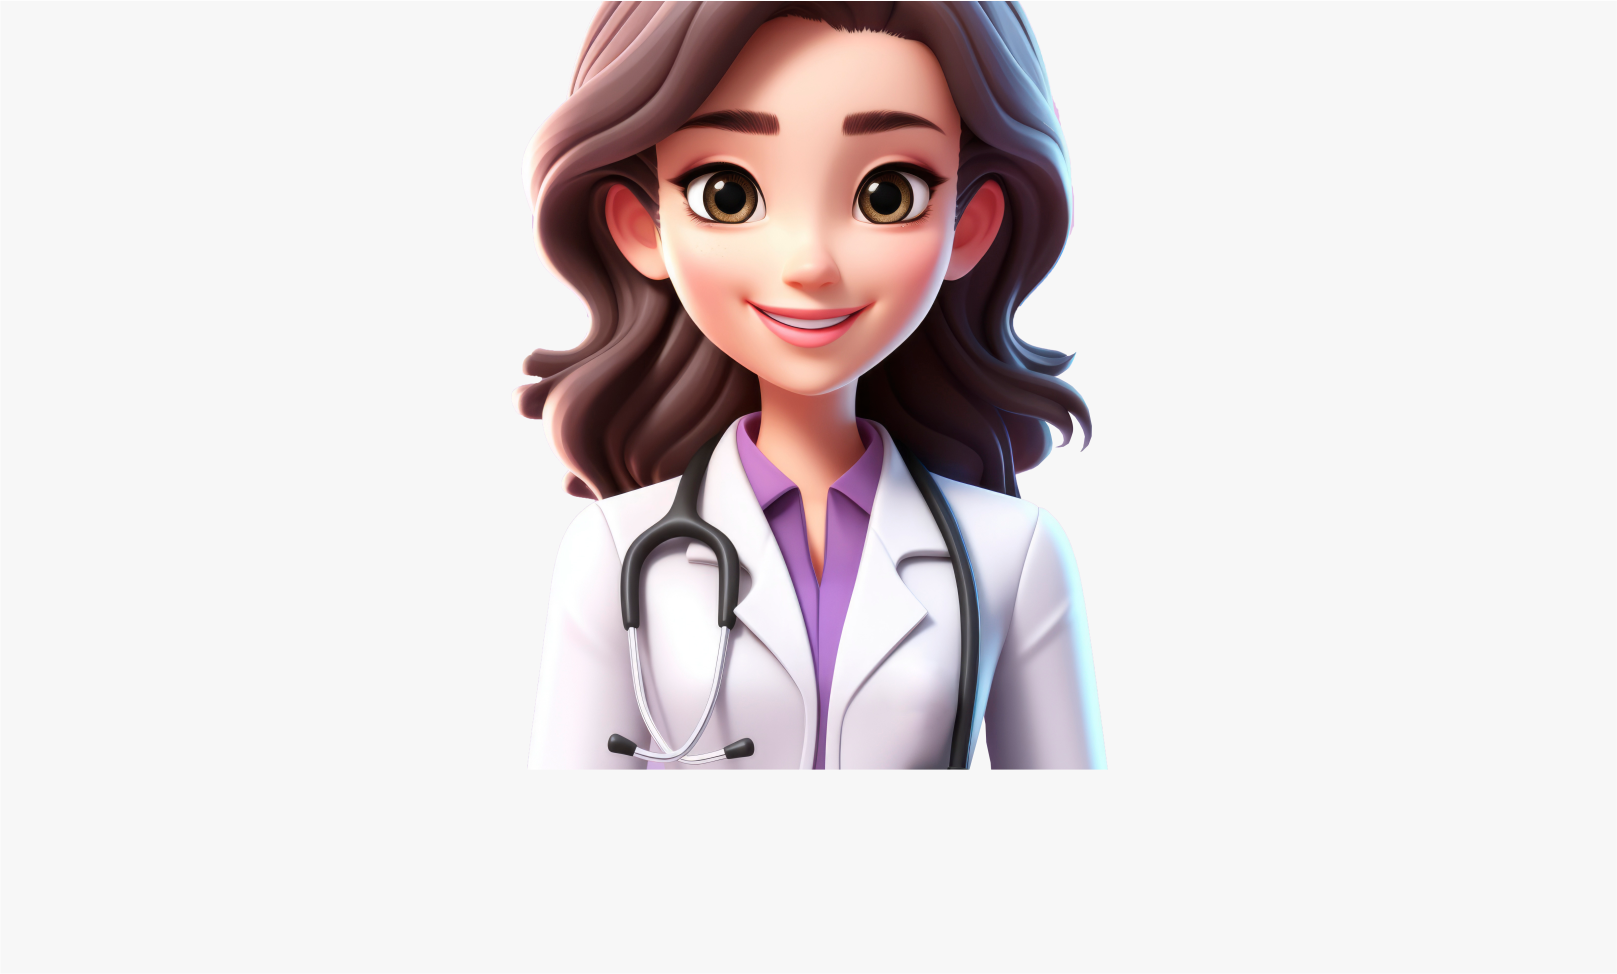
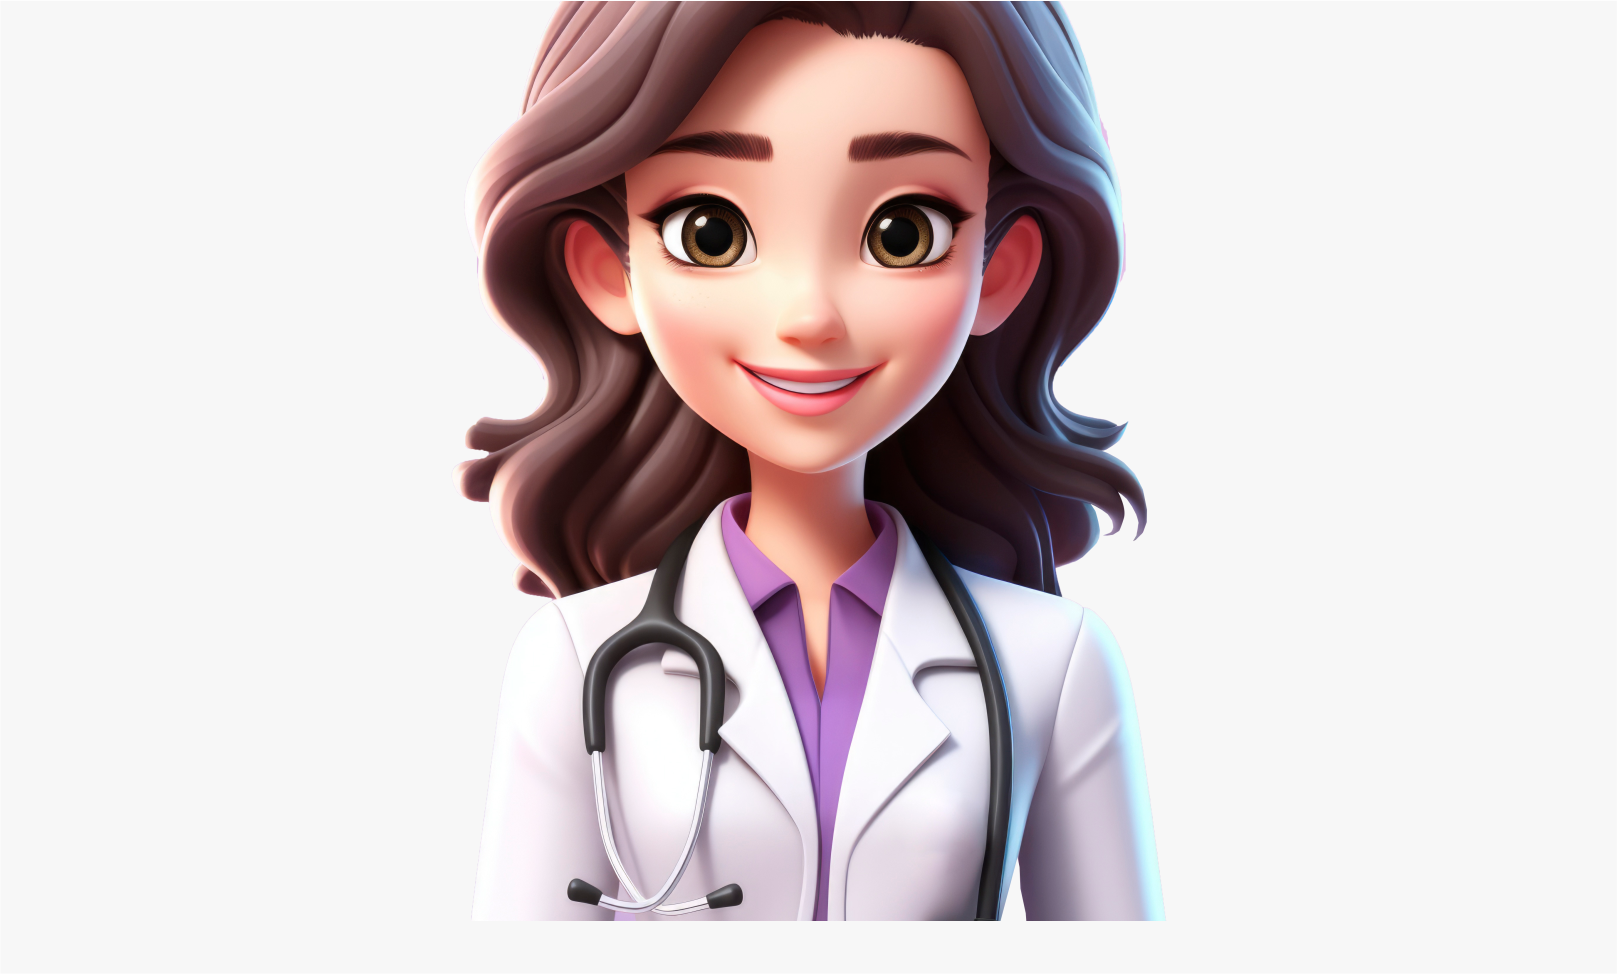
color

Changed region(s): [[0.2783, 0.0, 0.7421, 0.9548]]

diff --git a/css/style.css b/css/style.css
@@ -2,12 +2,12 @@
 
 /* ==================== VARIABLES ==================== */
 :root {
-  --color-1: #794FAE;
-  --color-2: #EFE4FF;
-  --color-3: #1BBACC;
+  --color-1: #1BBACC;
+  --color-2: #7A71C0;
+  --color-3: #E5E7E8;
 
   --blanco: #f7f7f7;
-  --negro: #5D3887;
+  --negro: #433B82;
 
 }
 
@@ -40,14 +40,14 @@
 .encabezado h1 {
   font-size: .9rem;
   text-align: center;
-  color: var(--blanco);
-  font-weight: 300;
+  color: var(--negro);
+  font-weight: 400;
   padding-top: .5rem;
 }
 
-/* ==================== imagen de fondo ==================== */
+/* ==================== doctora ==================== */
 .imagen-doctora {
-  height: 10rem;
+  height: 12rem;
   overflow: hidden;
 }
 
@@ -58,7 +58,7 @@
 /* ==================== FORMULARIO ==================== */
 
 .formulario {
-  padding: 1rem 2rem;
+  padding: 0rem 2rem 2rem 2rem;
   display: flex;
   flex-direction: column;
   gap: .5rem;
@@ -68,12 +68,12 @@
 .formulario .datos {
   display: flex;
   gap: 1rem;
+  background: var(--color-3);
+  border-radius: .5rem;
 }
 
 .formulario .datos div {
-  background: var(--color-2);
   padding: .5rem;
-  border-radius: .5rem;
   display: flex;
   align-items: center;
   justify-content: center;
@@ -97,7 +97,7 @@
 }
 
 .formulario .resultado {
-  background: var(--color-2);
+  background: var(--color-3);
   border-radius: .5rem;
   padding: 1rem;
   text-align: center;
@@ -115,7 +115,7 @@
 }
 
 .formulario .boton {
-  background: var(--color-3);
+  background: var(--color-2);
   border-radius: 2rem;
   padding: 1rem;
   cursor: pointer;

diff --git a/index.html b/index.html
@@ -4,8 +4,9 @@
 <head>
     <meta charset="UTF-8">
     <meta name="viewport" content="width=device-width, initial-scale=1.0">
-    <title>IMC</title>
+    <title>IMC Emelyn Espinal</title>
     <link rel="stylesheet" href="./css/style.css">
+    <link rel="shortcut icon" href="./img/icono.png" type="image/x-icon">
 </head>
 
 <body>
